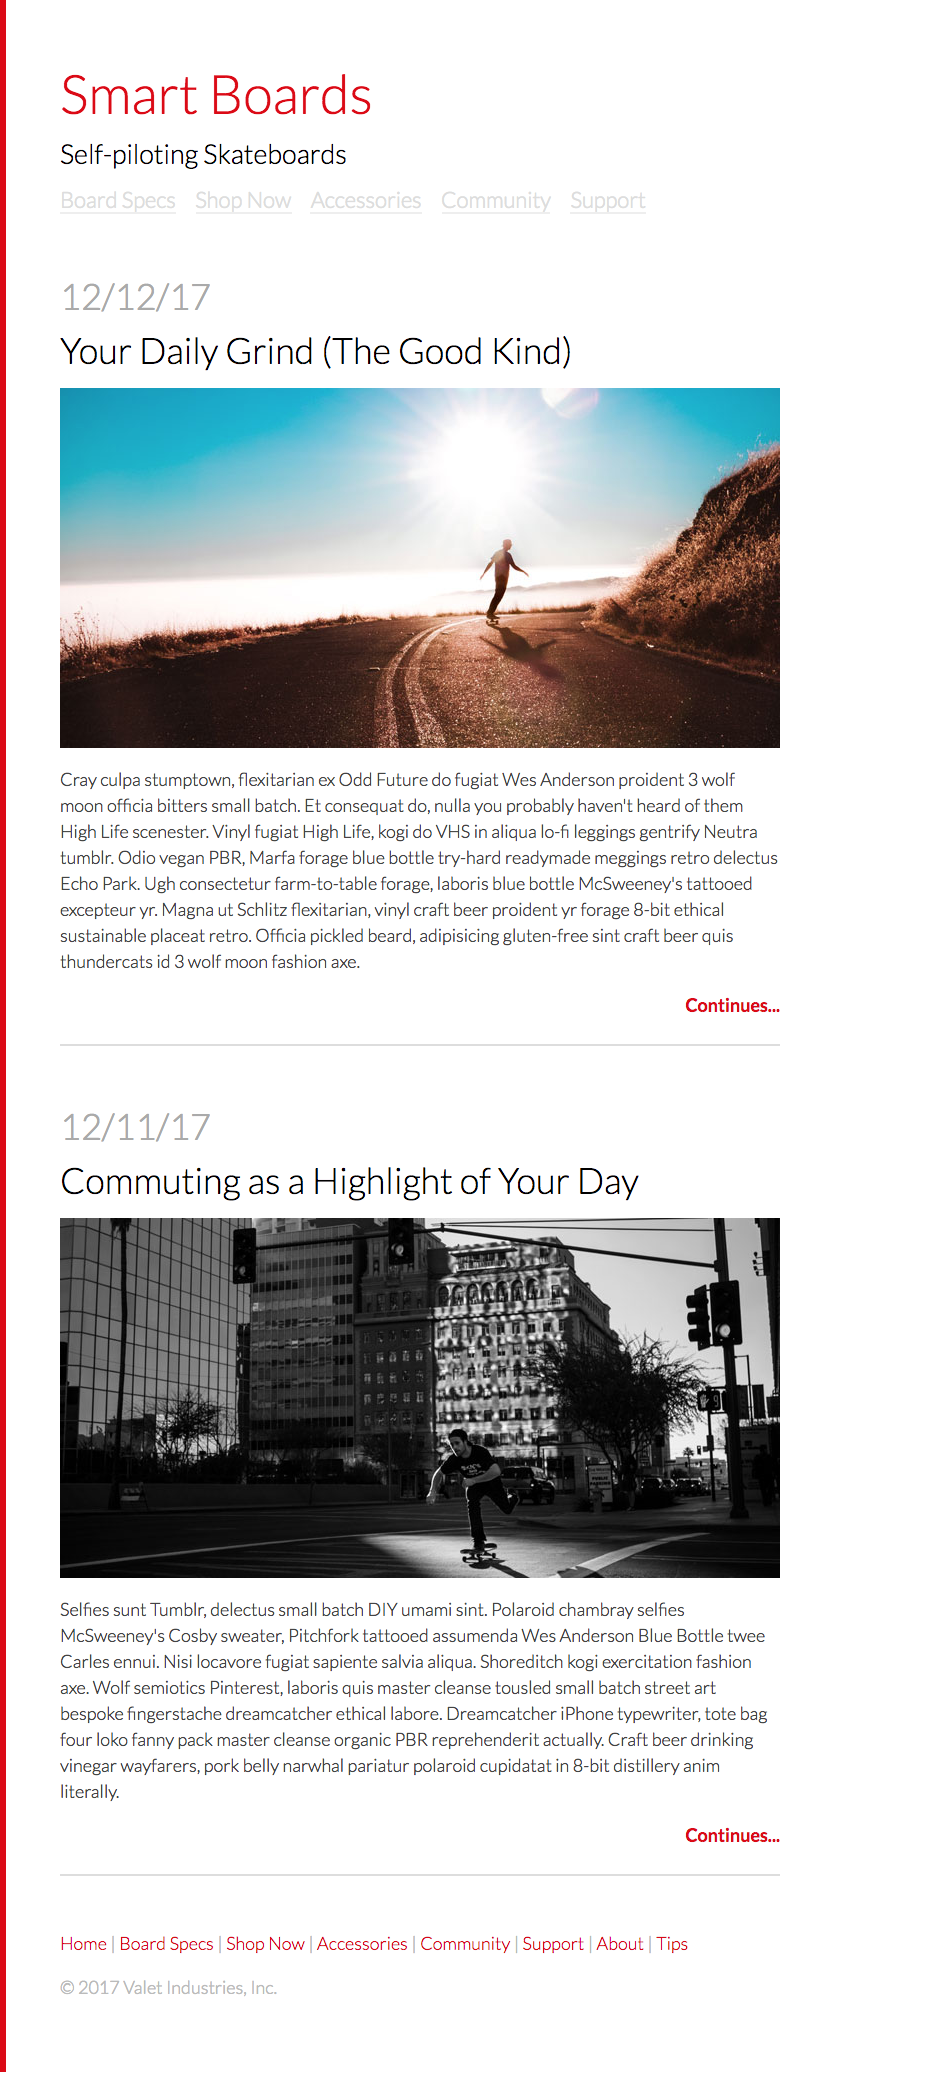
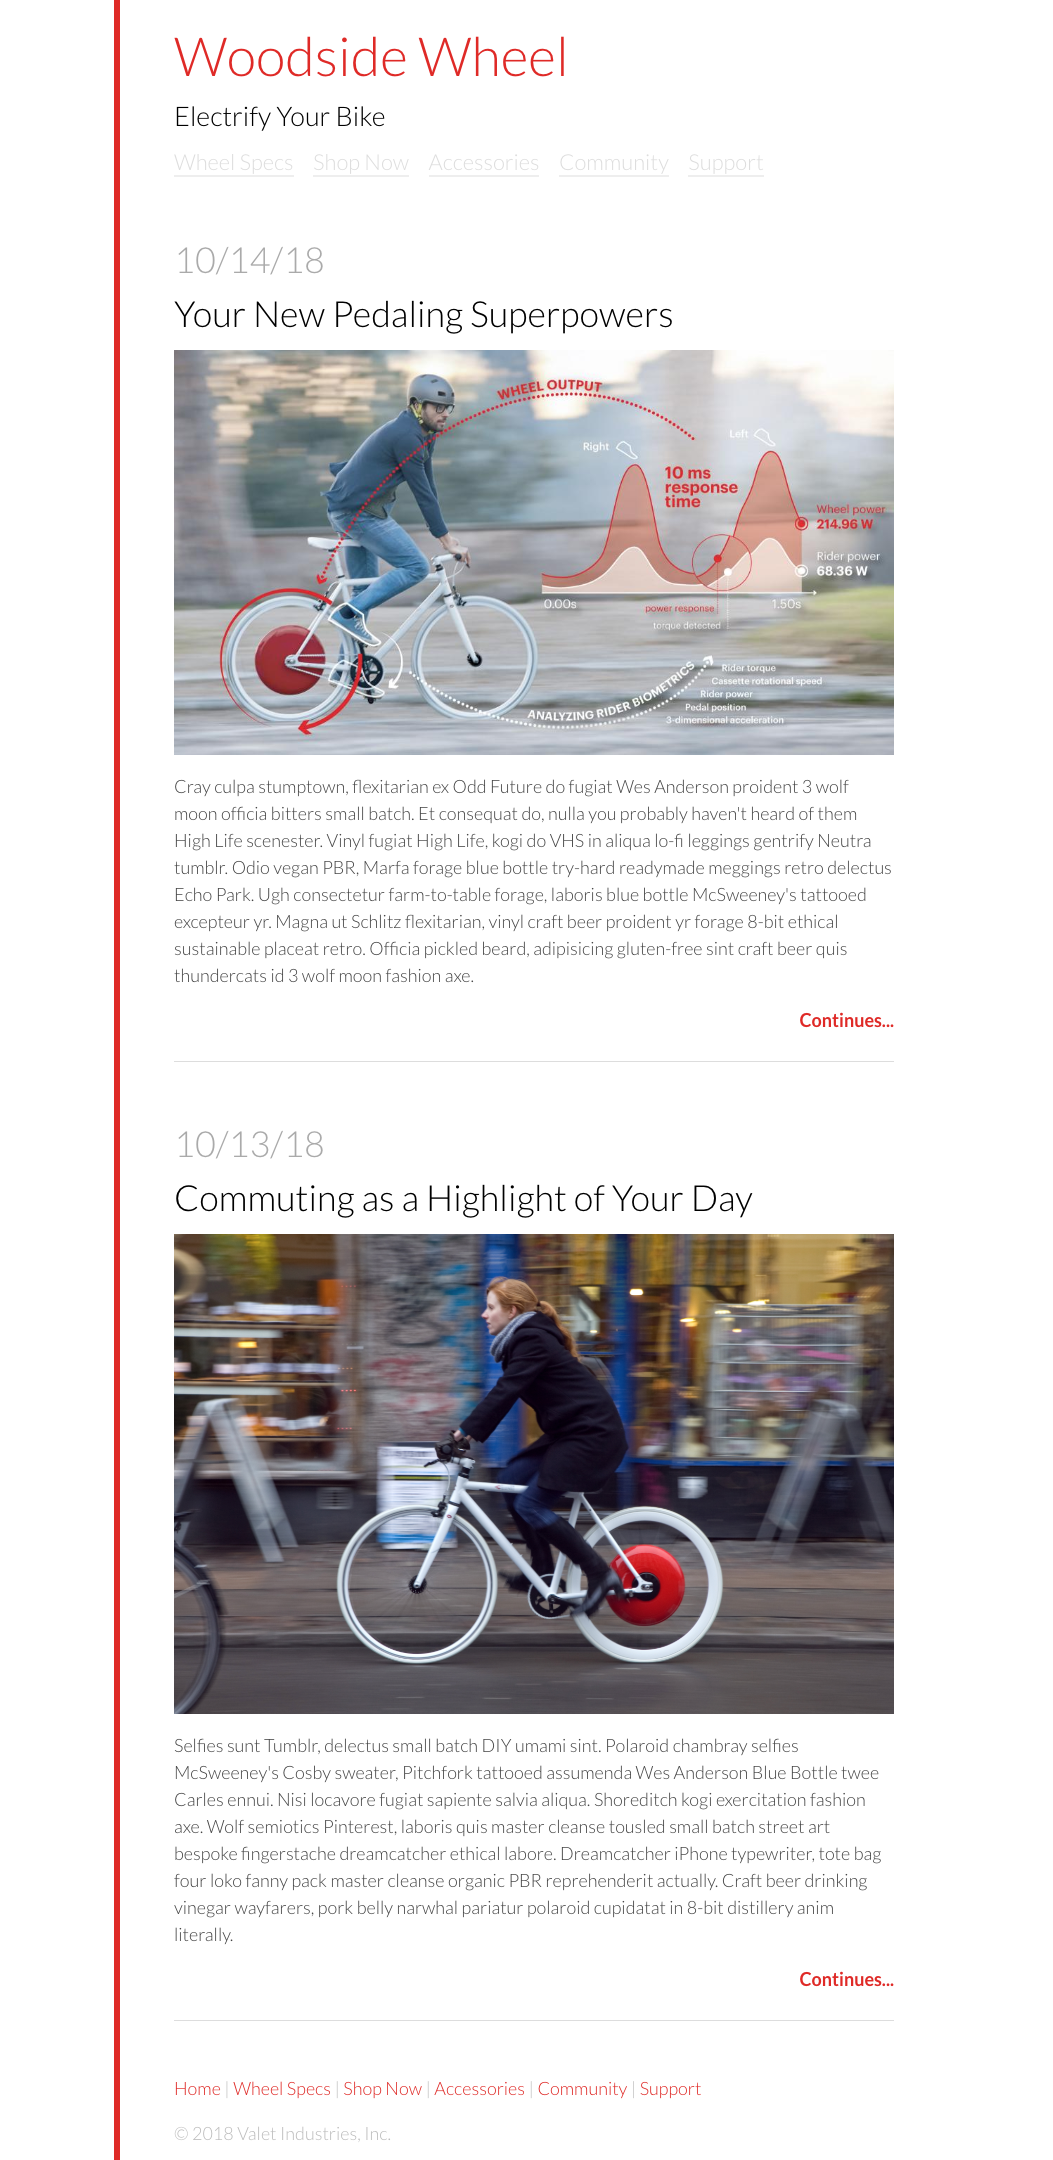
wheel solution

diff --git a/index.html b/index.html
@@ -1,69 +1,79 @@
 <!DOCTYPE html>
 <html>
-	<head>
-		<title>Smart Boards</title>
-		
-		<link href='http://fonts.googleapis.com/css?family=Lato:300,700,300italic,700italic' rel='stylesheet' type='text/css'>
-		<link rel="stylesheet" type="text/css" href="normalize.css">
-		<link rel="stylesheet" type="text/css" href="main.css">
-	</head>
 
-	<body>
-		<main class="wrapper">
-			<header class="header">
-				<h1><a href="index.html">Smart Boards</a></h1>
+<head>
+	<title>Woodside Wheel</title>
 
-				<h2>Self-piloting Skateboards</h2>
-				
-				<div class="nav">
-					<a href="#" class="header-nav-link">Board Specs</a>
-					<a href="#" class="header-nav-link">Shop Now</a>
-					<a href="#" class="header-nav-link">Accessories</a>
-					<a href="#" class="header-nav-link">Community</a>
-					<a href="#" class="header-nav-link">Support</a>
+	<link href='http://fonts.googleapis.com/css?family=Lato:300,700,300italic,700italic' rel='stylesheet' type='text/css'>
+	<link rel="stylesheet" type="text/css" href="normalize.css">
+	<link rel="stylesheet" type="text/css" href="main.css">
+</head>
 
-				</div>
-			</header>
+<body>
 
-			<article class="article">
-				<h3>12/12/17</h3>
-				
-				<h2>
-					<a href="#">Your Daily Grind (The Good Kind)</a>
-				</h2>
-								
-				<img src="skate1-720.jpg" alt="Commuting Skater">
-				
-				<p>Cray culpa stumptown, flexitarian ex Odd Future do fugiat Wes Anderson proident 3 wolf moon officia bitters small batch. Et consequat do, nulla you probably haven't heard of them High Life scenester. Vinyl fugiat High Life, kogi do VHS in aliqua lo-fi leggings gentrify Neutra tumblr. Odio vegan PBR, Marfa forage blue bottle try-hard readymade meggings retro delectus Echo Park. Ugh consectetur farm-to-table forage, laboris blue bottle McSweeney's tattooed excepteur yr. Magna ut Schlitz flexitarian, vinyl craft beer proident yr forage 8-bit ethical sustainable placeat retro. Officia pickled beard, adipisicing gluten-free sint craft beer quis thundercats id 3 wolf moon fashion axe.</p>
-				
-				<h4><a href="#">Continues...</a></h4>
-			</article>
+	<header class="header">
+		<h1><a href="index.html">Woodside Wheel</a></h1>
 
-			<article class="article">
-				<h3>12/11/17</h3>
+		<h2>Electrify Your Bike</h2>
 
-				<h2><a href="#">Commuting as a Highlight of Your Day</a></h2>
+		<nav class="nav">
+			<a href="#" class="header-nav-link">Wheel Specs</a>
+			<a href="#" class="header-nav-link">Shop Now</a>
+			<a href="#" class="header-nav-link">Accessories</a>
+			<a href="#" class="header-nav-link">Community</a>
+			<a href="#" class="header-nav-link">Support</a>
+		</nav>
+	</header>
 
-				<img src="skate2-720.jpg" alt="Commuting Skater">
+	<main>
+		<article class="article">
+			<h3>10/14/18</h3>
 
-				<p>Selfies sunt Tumblr, delectus small batch DIY umami sint. Polaroid chambray selfies McSweeney's Cosby sweater, Pitchfork tattooed assumenda Wes Anderson Blue Bottle twee Carles ennui. Nisi locavore fugiat sapiente salvia aliqua. Shoreditch kogi exercitation fashion axe. Wolf semiotics Pinterest, laboris quis master cleanse tousled small batch street art bespoke fingerstache dreamcatcher ethical labore. Dreamcatcher iPhone typewriter, tote bag four loko fanny pack master cleanse organic PBR reprehenderit actually. Craft beer drinking vinegar wayfarers, pork belly narwhal pariatur polaroid cupidatat in 8-bit distillery anim literally.</p>
+			<h2>
+				<a href="#">Your New Pedaling Superpowers</a>
+			</h2>
 
-				<h4><a href="#">Continues...</a></h4>
-			</article>
+			<img src="wheel1.jpg" alt="wheel output">
 
-			<div class="footer">
-				<div class="nav">
-					<a href="index.html">Home</a> |
-					<a href="#">Board Specs</a> |
-					<a href="#">Shop Now</a> |
-					<a href="#">Accessories</a> |
-					<a href="#">Community</a> |
-					<a href="#">Support</a> |
-					<a href="#">About</a> |
-					<a href="#">Tips</a>
-				</div>
-				<p>&copy; 2017 Valet Industries, Inc.</p>
-			</div>
-		</main>
-	</body>
+			<p>Cray culpa stumptown, flexitarian ex Odd Future do fugiat Wes Anderson proident 3 wolf moon officia bitters small
+				batch. Et consequat do, nulla you probably haven't heard of them High Life scenester. Vinyl fugiat High Life, kogi
+				do VHS in aliqua lo-fi leggings gentrify Neutra tumblr. Odio vegan PBR, Marfa forage blue bottle try-hard readymade
+				meggings retro delectus Echo Park. Ugh consectetur farm-to-table forage, laboris blue bottle McSweeney's tattooed
+				excepteur yr. Magna ut Schlitz flexitarian, vinyl craft beer proident yr forage 8-bit ethical sustainable placeat
+				retro. Officia pickled beard, adipisicing gluten-free sint craft beer quis thundercats id 3 wolf moon fashion axe.</p>
+
+			<h4><a href="#">Continues...</a></h4>
+		</article>
+
+		<article class="article">
+			<h3>10/13/18</h3>
+
+			<h2><a href="#">Commuting as a Highlight of Your Day</a></h2>
+
+			<img src="wheel2.jpg" alt="commuting bike woman">
+
+			<p>Selfies sunt Tumblr, delectus small batch DIY umami sint. Polaroid chambray selfies McSweeney's Cosby sweater,
+				Pitchfork tattooed assumenda Wes Anderson Blue Bottle twee Carles ennui. Nisi locavore fugiat sapiente salvia
+				aliqua. Shoreditch kogi exercitation fashion axe. Wolf semiotics Pinterest, laboris quis master cleanse tousled
+				small batch street art bespoke fingerstache dreamcatcher ethical labore. Dreamcatcher iPhone typewriter, tote bag
+				four loko fanny pack master cleanse organic PBR reprehenderit actually. Craft beer drinking vinegar wayfarers, pork
+				belly narwhal pariatur polaroid cupidatat in 8-bit distillery anim literally.</p>
+
+			<h4><a href="#">Continues...</a></h4>
+		</article>
+	</main>
+
+	<footer class="footer">
+		<nav class="nav">
+			<a href="index.html">Home</a> |
+			<a href="#">Wheel Specs</a> |
+			<a href="#">Shop Now</a> |
+			<a href="#">Accessories</a> |
+			<a href="#">Community</a> |
+			<a href="#">Support</a>
+		</nav>
+		<p>&copy; 2018 Valet Industries, Inc.</p>
+	</footer>
+</body>
+
 </html>

diff --git a/main.css b/main.css
@@ -1,102 +1,100 @@
 body {
-	margin: 0;
-	padding: 0;
-	font-family: "Lato", Helvetica, sans-serif;
-	font-size: 18px;
-	line-height: 1.5;
-	background-color: #ffffff;
-	color: #444444;
-}
-
-.wrapper {
-	padding: 54px;
-	width: 720px;
-	border-left: 6px solid #dd0000;
+  margin: 0;
+  padding: 0;
+  font-family: 'Lato', Helvetica, sans-serif;
+  font-size: 18px;
+  line-height: 1.5;
+  color: #444444;
+  padding: 54px;
+  max-width: 720px;
+  margin: 0 auto;
+  border-left: 6px solid #e2231a;
 }
 
 a {
-	color: #dd0000;
-	text-decoration: none;
+  color: #e2231a;
+  text-decoration: none;
 }
 
 a:hover {
-	color: #aa0000;
+  color: #aa0000;
 }
 
-h1, h2, h3, h4 {
-	margin: 0;
-	padding: 0;
+h1,
+h2,
+h3,
+h4 {
+  margin: 0;
+  padding: 0;
 }
 
 h1 {
-	font-size: 54px;
-	font-weight: normal;
+  font-size: 54px;
+  font-weight: normal;
 }
 
 h2 {
-	font-size: 36px;
-	font-weight: normal;
-	color: black;
-	margin: 0;
-	padding: 0;
+  font-size: 36px;
+  font-weight: normal;
+  color: black;
+  margin: 0;
+  padding: 0;
 }
 
 h2 a {
-	color: black;
+  color: black;
 }
 
 h2 a:hover {
-	color: #DD0000;
+  color: #e2231a;
 }
 
 h3 {
-	font-size: 36px;
-	font-weight: normal;
-	color: #aaa;
-	margin: 0;
-	padding: 0;
+  font-size: 36px;
+  font-weight: normal;
+  color: #aaa;
+  margin: 0;
+  padding: 0;
 }
 
 h4 {
-	text-align: right;
+  text-align: right;
 }
 
 img {
-	display: block;
-	margin: 10px 0;
-	width: 100%;
+  display: block;
+  margin: 10px 0;
+  width: 100%;
 }
 
 /* Header */
 .header h2 {
-	font-size: 27px;
-	margin-bottom: 9px;
+  font-size: 27px;
+  margin-bottom: 9px;
 }
-
 
 /* .header .nav a */
 .header-nav-link {
-	font-size: 22px;
-	margin-right: 16px;
-	color: #dddddd;
-	border-bottom: 2px solid #eeeeee;
+  font-size: 22px;
+  margin-right: 16px;
+  color: #dddddd;
+  border-bottom: 2px solid #eeeeee;
 }
-
 
 /* .header .nav a:hover */
 .header-nav-link:hover {
-	color: black;
-	border-bottom: 2px solid #bbbbbb;
+  color: black;
+  border-bottom: 2px solid #bbbbbb;
 }
 
 /* Article */
 .article {
-	border-bottom: 1px solid #dddddd;
-	margin: 54px 0;
-	padding-bottom: 27px;
+  border-bottom: 1px solid #dddddd;
+  margin: 54px 0;
+  padding-bottom: 27px;
 }
 
 /* Footer */
 .footer {
-	color: #bbbbbb;
+  color: #bbbbbb;
 }

diff --git a/readme.md b/readme.md
@@ -1,4 +1,4 @@
-# CSS Box Model Lab
+# HTML / CSS Lab
 
 In this lab you will practice converting a design into HTML and CSS, with a focus on box model properties.
 
@@ -11,31 +11,31 @@ We'll provide some style information below. Approximate or use a [Ruler applicat
 ## Provided style information
 
 High-level text properties:
-    "Lato" font
-    1.5 line-height
+"Lato" font
+1.5 line-height
 
-The main content:
-    720px wide
-    54px of padding
-    border should be solid on the left and 6px wide with a color of #dd0000
+The main content (body):
+max-width 720px
+54px of padding
+border should be solid on the left and 6px wide with a color of #e2231a
 
 Links:
-    Text color #DD0000
+Text color #e2231a
 
 Links hover:
-    Text color #aa0000
+Text color #aa0000
 
 Navigation links:
-    Text color #dddddd
+Text color #dddddd
 
 Navigation links hover:
-    Text color black
+Text color black
 
-Date: 
-    Text color #cccccc
+Date:
+Text color #cccccc
 
 Article Title
-    Text color black
+Text color black
 
 Copyright
-    Text color #bbbbbb
+Text color #bbbbbb
